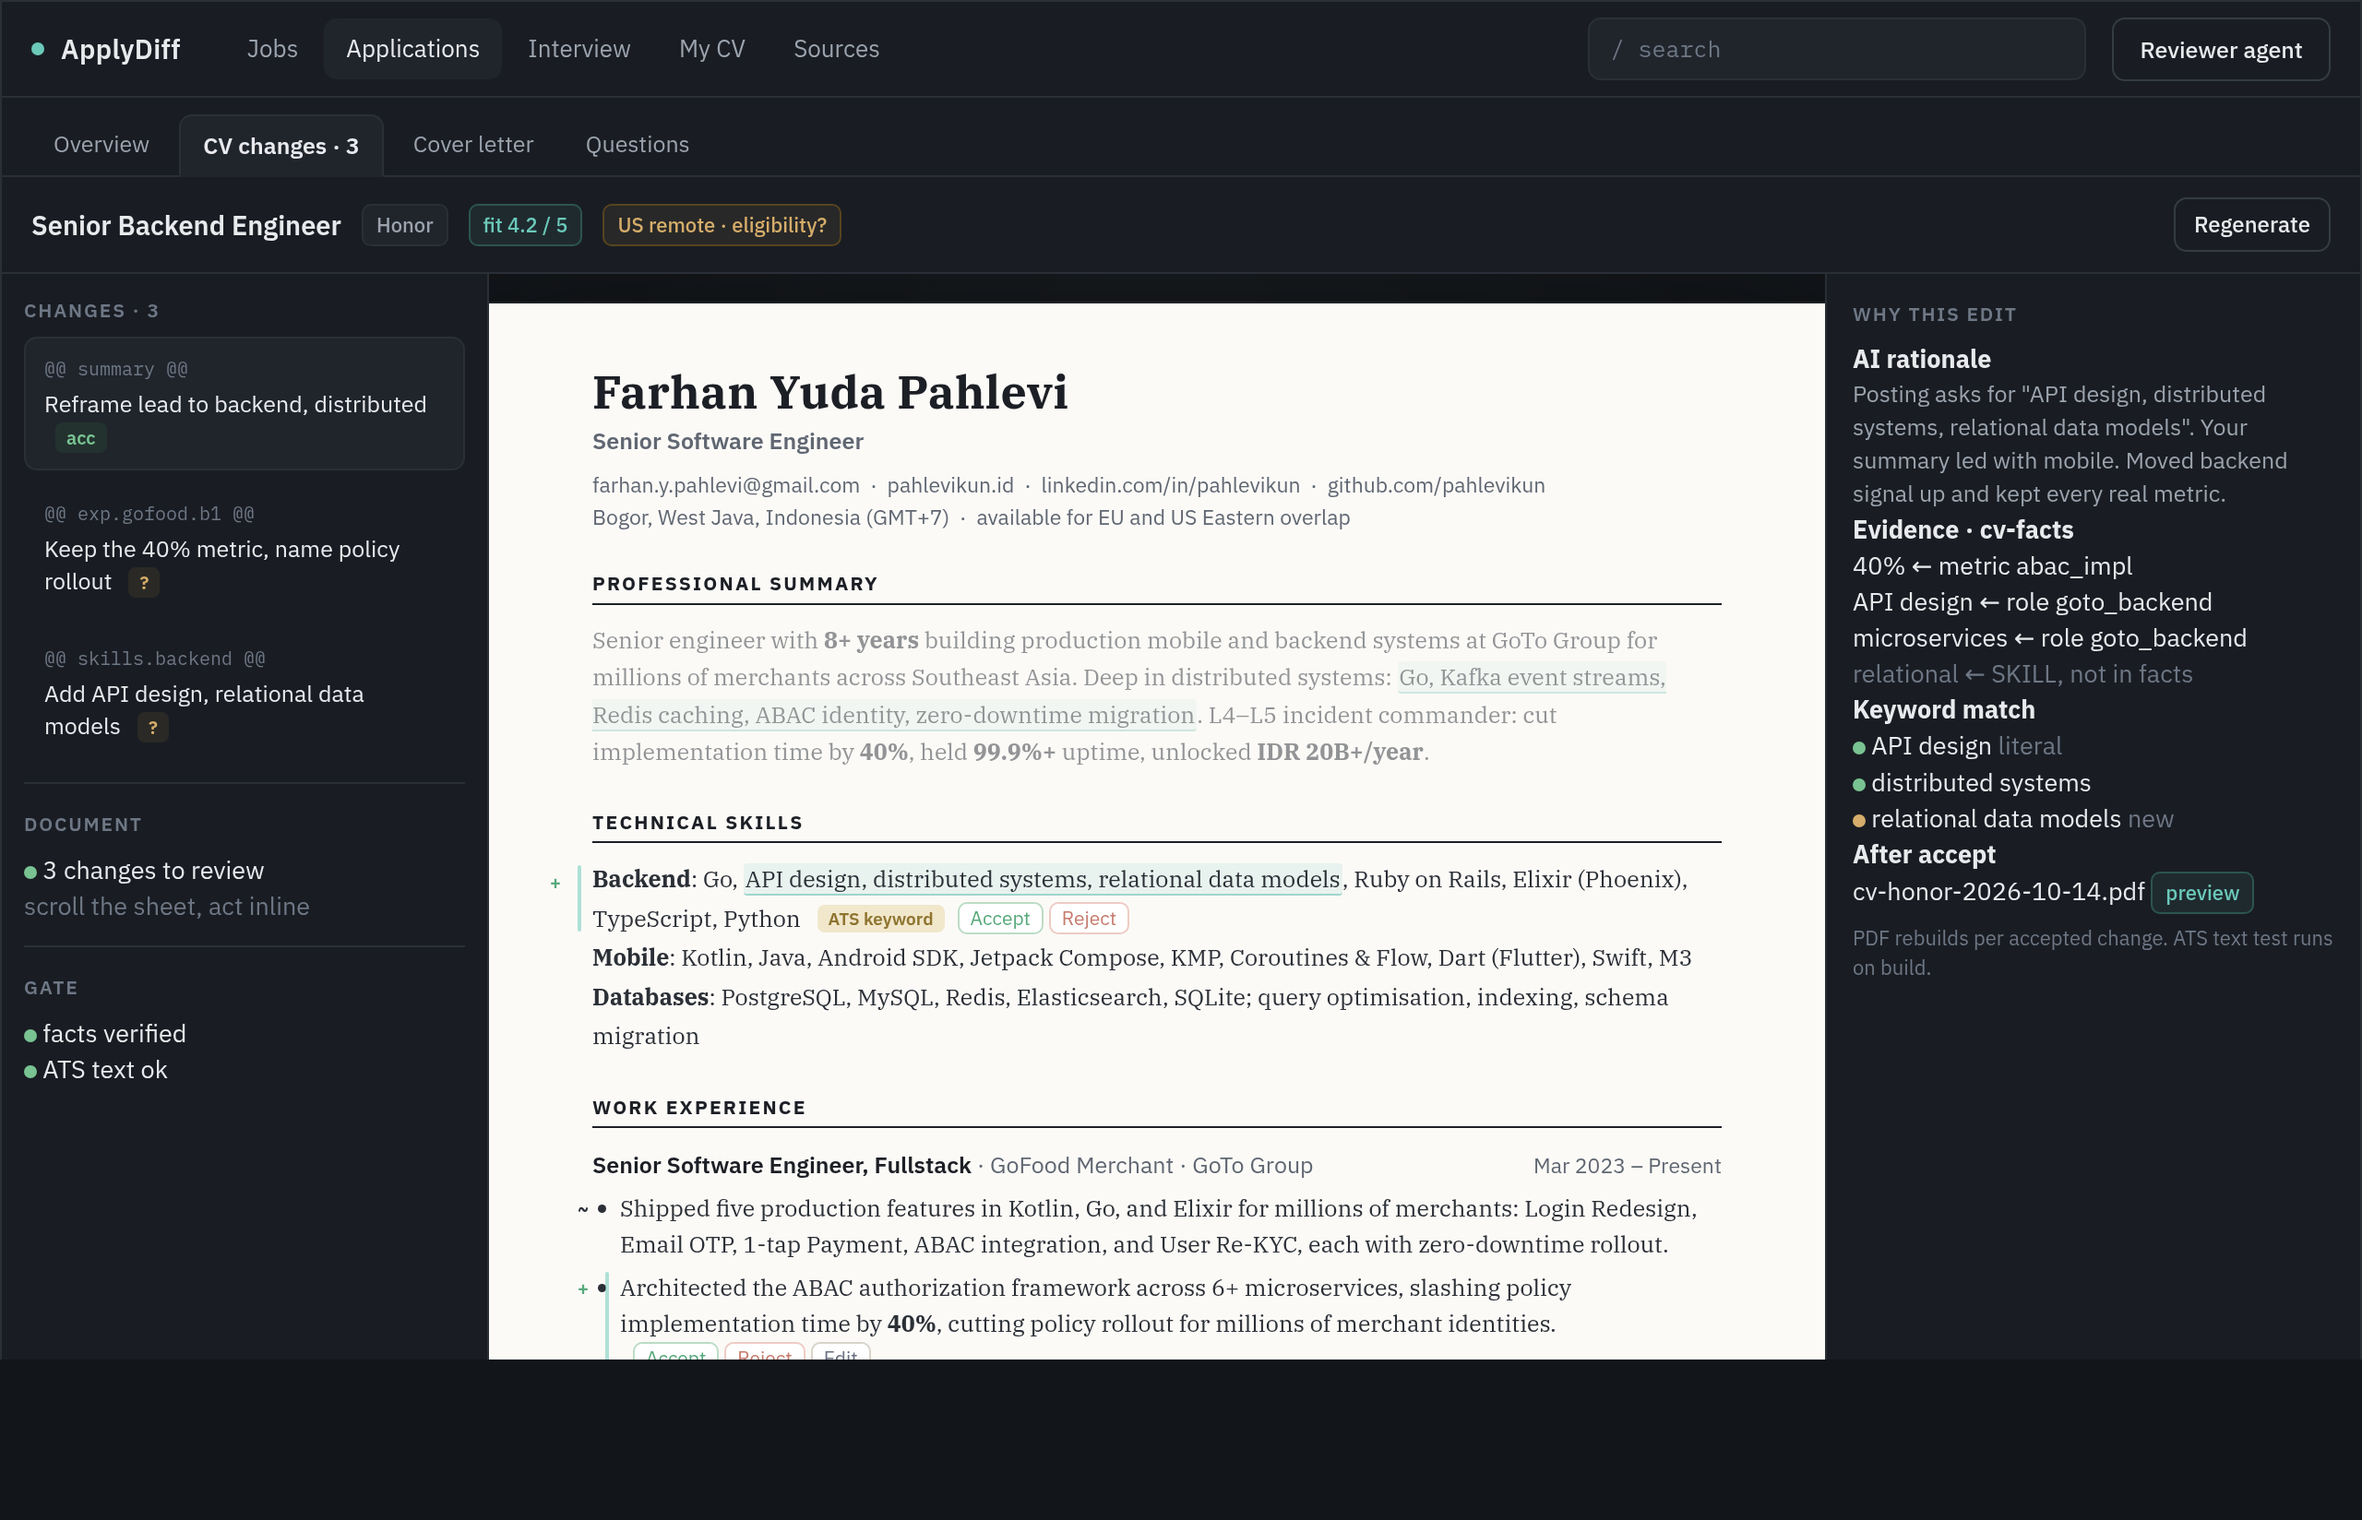
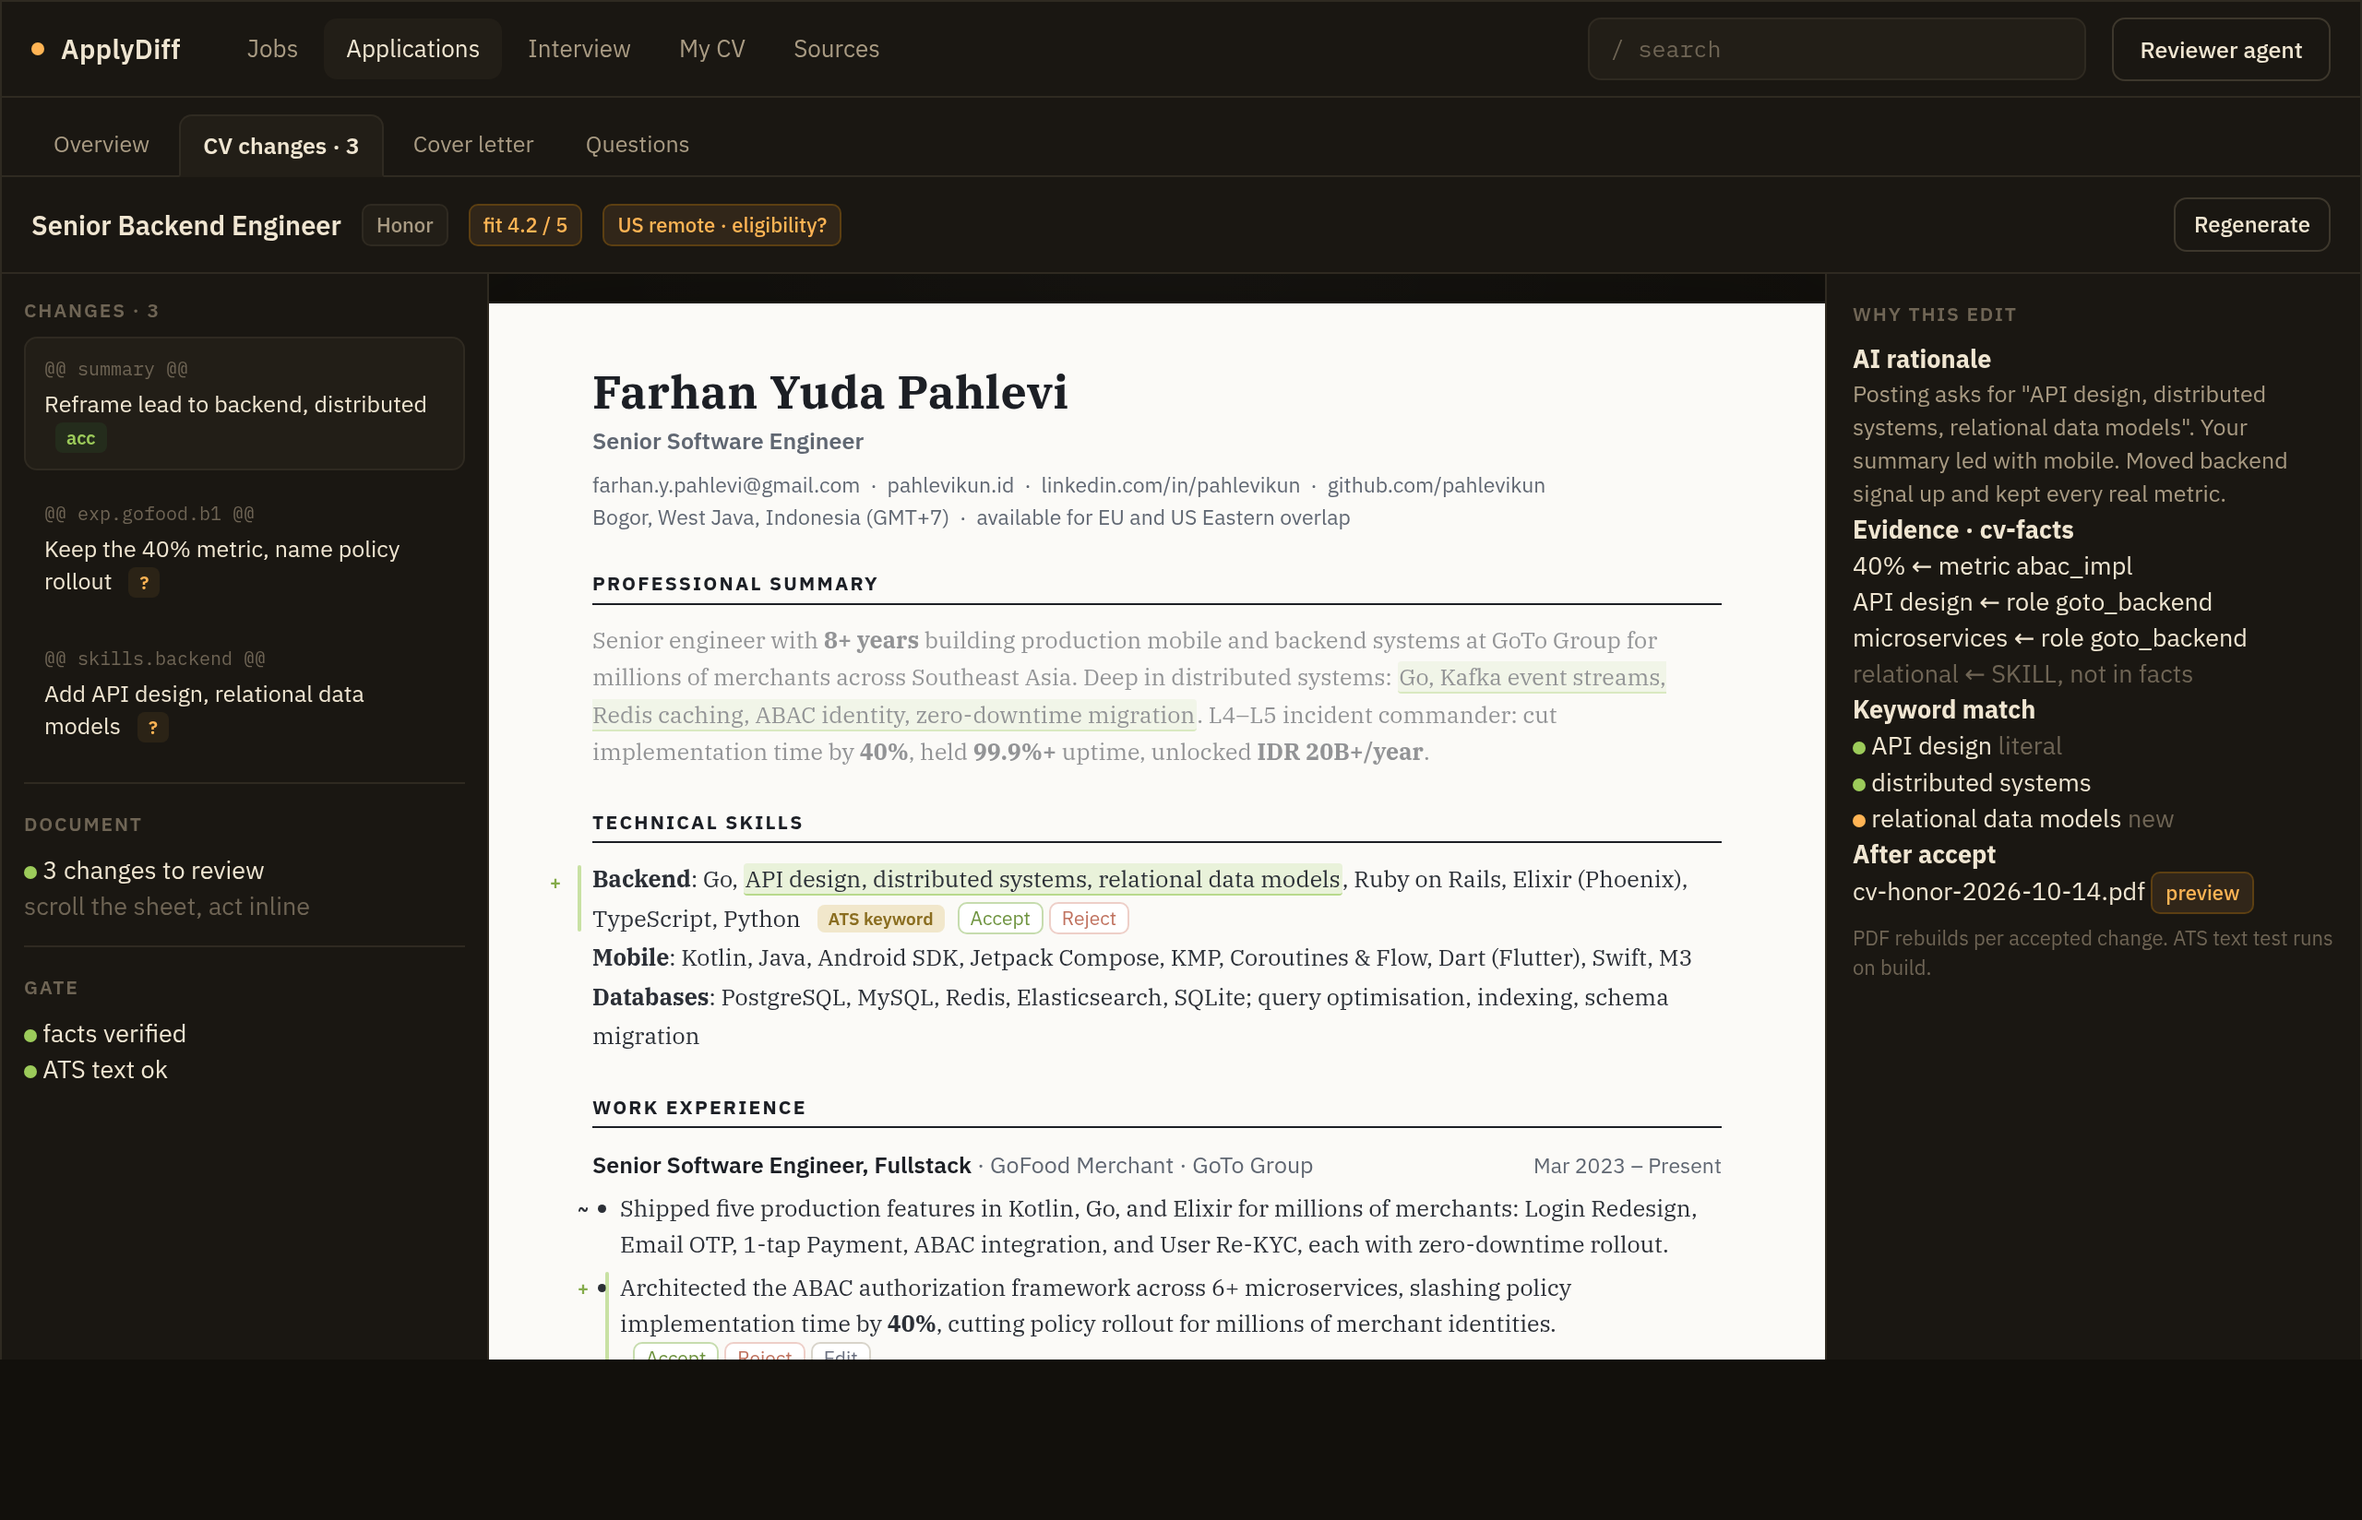
design: lock Phosphor palette + plan CLI/TUI/Web
- theme.css: amber CRT tokens (bg #12100c, accent #ffb454, add/del tuned)
- re-render s01-s06 wireframes with the locked palette
- docs/plans/2026-10-17-cli-tui-web.md: CLI commands, Bubble Tea TUI,
  web polish, phases with checklists

diff --git a/docs/wireframes/theme.css b/docs/wireframes/theme.css
@@ -7,11 +7,11 @@
 @font-face{font-family:'Plex Mono';src:url('fonts/ibm-plex-mono-latin-600-normal.woff2') format('woff2');font-weight:600}
 
 :root{
-  --bg:#12151a; --surface:#191d23; --surface2:#20252c; --line:#2a2f37; --line2:#353b44;
-  --fg:#e9eaed; --muted:#9ba3ae; --dim:#6e7785;
-  --accent:#6bc9ba; --accent-dim:#2c554d; --amber:#d6ad6a;
-  --add:#79c392; --add-bg:#17261d; --add-gutter:#79c39222;
-  --del:#db8c7c; --del-bg:#2a1e1b; --del-gutter:#db8c7c22;
+  --bg:#12100c; --surface:#1a1712; --surface2:#221e17; --line:#2f2a21; --line2:#3d372c;
+  --fg:#f0e6d2; --muted:#a99b83; --dim:#6f6555;
+  --accent:#ffb454; --accent-dim:#5c3f12; --amber:#ffb454;
+  --add:#9ccb5a; --add-bg:#1d2412; --add-gutter:#9ccb5a22;
+  --del:#e5644e; --del-bg:#2a1712; --del-gutter:#e5644e22;
   --r:10px; --r-sm:7px;
 }
 *{box-sizing:border-box;margin:0;padding:0}
@@ -28,7 +28,7 @@ body{background:var(--bg);color:var(--fg);font-family:'Plex Sans',system-ui,sans
 .nav a:hover{color:var(--fg)}
 .grow{flex:1}
 .search{display:flex;align-items:center;gap:7px;background:var(--surface2);border:1px solid var(--line);border-radius:var(--r-sm);padding:7px 11px;color:var(--dim);width:270px;font-size:12.5px}
-.btn{background:var(--accent);color:#05221f;border:none;border-radius:var(--r-sm);padding:8px 14px;font-weight:600;font-size:12.5px;cursor:pointer;font-family:inherit}
+.btn{background:var(--accent);color:#1a1206;border:none;border-radius:var(--r-sm);padding:8px 14px;font-weight:600;font-size:12.5px;cursor:pointer;font-family:inherit}
 .btn.ghost{background:transparent;color:var(--fg);border:1px solid var(--line2);font-weight:500}
 .btn.sm{padding:5px 10px;font-size:12px}
 .btn:disabled{opacity:.4;cursor:not-allowed}
@@ -41,8 +41,8 @@ body{background:var(--bg);color:var(--fg);font-family:'Plex Sans',system-ui,sans
 .lbl{font-size:10.5px;text-transform:uppercase;letter-spacing:.9px;color:var(--dim);font-weight:600;margin:14px 0 7px}
 .lbl:first-child{margin-top:0}
 .chip{display:inline-flex;align-items:center;gap:5px;font-size:11px;padding:2.5px 7px;border-radius:5px;background:var(--surface2);border:1px solid var(--line);color:var(--muted);font-weight:500}
-.chip.acc{color:var(--accent);border-color:var(--accent-dim);background:#6bc9ba14}
-.chip.amb{color:var(--amber);border-color:#57441f;background:#d6ad6a14}
+.chip.acc{color:var(--accent);border-color:var(--accent-dim);background:#ffb4541a}
+.chip.amb{color:var(--amber);border-color:#5c3f12;background:#ffb4541a}
 .dot{width:7px;height:7px;border-radius:50%;background:var(--accent);display:inline-block}
 .hr{height:1px;background:var(--line);margin:12px 0}
 .muted{color:var(--muted)}.dim{color:var(--dim)}.acc{color:var(--accent)}.amb{color:var(--amber)}
@@ -53,7 +53,7 @@ body{background:var(--bg);color:var(--fg);font-family:'Plex Sans',system-ui,sans
 @font-face{font-family:'Plex Serif';src:url('fonts/ibm-plex-serif-latin-700-normal.woff2') format('woff2');font-weight:700}
 :root{--paper:#fbfaf7;--ink:#1c1f25;--ink-mut:#606772;--ink-dim:#8d929b;--paper-line:#e6e3db}
 
-.sheetwrap{flex:1;min-height:0;overflow:hidden;background:#101317;display:flex;justify-content:center;position:relative}
+.sheetwrap{flex:1;min-height:0;overflow:hidden;background:#100e0a;display:flex;justify-content:center;position:relative}
 .sheetwrap:before{content:"";position:absolute;inset:0;background:radial-gradient(120% 60% at 50% 0%,#ffffff08,transparent 60%)}
 .sheet{width:840px;background:var(--paper);color:var(--ink);margin:16px 0 0;box-shadow:0 24px 70px #000a,0 0 0 1px #ffffff12;position:relative;z-index:1}
 .pad{padding:34px 56px 60px}
@@ -74,16 +74,16 @@ ul.dots li{font-family:'Plex Serif';font-size:12.5px;line-height:1.55;color:#2b2
 /* changes: inline marks, no boxes */
 .chg{position:relative}
 .chg>.mk{position:absolute;left:-26px;top:2px;font-family:'Plex Mono';font-size:10px;font-weight:700;width:12px;text-align:center}
-.chg.add>.mk{color:#57a97b}.chg.del>.mk{color:#c67b6d}
+.chg.add>.mk{color:#84ab4a}.chg.del>.mk{color:#c0725f}
 .chg:before{content:"";position:absolute;left:-8px;top:1px;bottom:1px;width:2px;border-radius:2px}
-.chg.add:before{background:#6bc9ba88}.chg.del:before{background:#db8c7c88}
-ins{background:#6bc9ba20;border-bottom:1px solid #a0d5cb;text-decoration:none;padding:0 1px;border-radius:2px}
-del{color:#b36d5f;background:#db8c7c14;text-decoration:line-through;padding:0 1px;border-radius:2px}
+.chg.add:before{background:#9ccb5a88}.chg.del:before{background:#e5644e88}
+ins{background:#9ccb5a2e;border-bottom:1px solid #b8d98c;text-decoration:none;padding:0 1px;border-radius:2px}
+del{color:#b3603f;background:#e5644e14;text-decoration:line-through;padding:0 1px;border-radius:2px}
 .ctl{display:inline-flex;gap:3px;margin-left:7px;vertical-align:1px}
 .ctl button{border:1px solid #d8d4ca;background:#fff;border-radius:5px;font-size:10.5px;line-height:1;padding:2.5px 6px;cursor:pointer;color:#6a7080;font-family:'Plex Sans'}
-.ctl .ok{color:#57a97b;border-color:#bcdcc5}
-.ctl .no{color:#c67b6d;border-color:#eecbc4}
-.ats{font-family:'Plex Sans';font-size:9.5px;font-weight:600;color:#8f7430;background:#f1e7cb;border-radius:4px;padding:1.5px 6px;margin-left:6px;vertical-align:1px}
+.ctl .ok{color:#6f9440;border-color:#c6dcae}
+.ctl .no{color:#c0725f;border-color:#eecfc8}
+.ats{font-family:'Plex Sans';font-size:9.5px;font-weight:600;color:#8a6d1f;background:#f1e7cb;border-radius:4px;padding:1.5px 6px;margin-left:6px;vertical-align:1px}
 .accepted{opacity:.5}
 .accepted .ctl{display:none}
 

diff --git a/docs/plans/2026-10-17-cli-tui-web.md b/docs/plans/2026-10-17-cli-tui-web.md
@@ -1,0 +1,169 @@
+# ApplyDiff — CLI + TUI + Web (proper UI/UX)
+
+Status: plan · Owner: F Y Pahlevi · Date: 2026-10-17
+
+## Why
+
+Core Go udah jalan (scan, match, cv, tailor, diff, filter, application, store,
+export). Sekarang cuma kebuka lewat HTTP API + Nuxt web. Kita mau tiga pintu
+masuk ke **satu core yang sama**:
+
+1. **CLI** — scriptable, non-interactive, buat otomasi (cron, pipe).
+2. **TUI** — interactive di terminal, keyboard-driven, "alive" seperti
+   claude-code / codex / cursor-cli. Ini rumah alami buat review diff per-hunk.
+3. **Web** — UI proper buat yang mau lihat penuh.
+
+Satu core, satu SQLite, tiga muka. **Gak ada logika bisnis di UI.**
+
+## Palette — LOCKED: PHOSPHOR
+
+Amber CRT di warm black. Nuansa terminal, bukan hijau klise.
+
+```
+--bg      #12100c   --surface  #1a1712   --surface2 #221e17
+--line    #2f2a21   --line2    #3d372c
+--fg      #f0e6d2   --muted    #a99b83   --dim      #6f6555
+--accent  #ffb454   --accent-dim #5c3f12
+--add     #9ccb5a   --del      #e5644e
+paper #fbfaf7  ink #1c1f25  paper-line #e6e3db
+```
+
+Rules (biar gak jadi slop):
+
+- Accent cuma buat **satu** hal per layar (CTA/aktif). Bukan dekorasi.
+- `add`/`del` cuma buat diff. Jangan dipakai buat status umum.
+- Gak ada gradient. Gak ada glow berlebih. Border 1px, radius 10px / 7px.
+- Font: IBM Plex Sans (UI) + IBM Plex Mono (angka, kode, diff).
+- Motion minimal: fade 120ms, gak ada bounce.
+
+## Arsitektur
+
+```
+             ┌──────────────── internal/ (core, no UI) ────────────────┐
+             │ job source scan match cv tailor diff filter extract    │
+             │ application store export llm                           │
+             └───────▲───────────────────────▲────────────────────────┘
+                     │ in-process            │ in-process
+        cmd/applydiff (CLI subcommands)   cmd/applydiff tui (Bubble Tea)
+                     │
+                     │ net/http
+                     ▼
+              cmd/applydiff serve  ──►  web/ (Nuxt 3)
+```
+
+- CLI + TUI: panggil core **langsung** (in-process). Cepat, gak perlu server.
+- Web: lewat HTTP API yang sama (`/api/...`).
+- Satu sumber kebenaran: semua aksi nulis ke SQLite lewat `internal/store`.
+- Audit log: setiap approve/apply tercatat (actor, waktu, hunk).
+
+## Surface 1 — CLI
+
+Binary: `applydiff`. Non-interactive. Semua command punya `--json`.
+
+| Command | Fungsi |
+|---|---|
+| `applydiff scan [--source S] [--preset P]` | tarik job, dedupe, liveness probe |
+| `applydiff jobs [--filter ...] [--json]` | list job + skor filter |
+| `applydiff show <job-key>` | detail JD + match reasons |
+| `applydiff match <job-key>` | hitung skor match vs CV |
+| `applydiff tailor <job-key>` | generate CV variant + cover letter (LLM) |
+| `applydiff diff <job-key> [--color=auto]` | tampilin diff per-hunk (unified) |
+| `applydiff approve <job-key> --hunk N[,N]` | approve hunk tertentu |
+| `applydiff approve <job-key> --all` | approve semua hunk (gate tetap wajib eksplisit) |
+| `applydiff reject <job-key> --hunk N` | tolak hunk |
+| `applydiff build <job-key>` | compile PDF LaTeX (xelatex) |
+| `applydiff apply <job-key> [--mode manual\|assisted\|auto]` | tandai / kirim |
+| `applydiff export <file>` / `import <file>` | SQLite portability |
+| `applydiff serve [--port 8787]` | start HTTP API + web |
+| `applydiff tui` | buka TUI |
+
+Aturan CLI:
+
+- Exit code: `0` ok · `2` gak ada match · `3` butuh approval · `4` error LLM ·
+  `5` error build LaTeX. Biar bisa dipakai di script.
+- `--json` output stabil buat pipe.
+- `--dry-run` di semua command yang nulis.
+- Gak ada auto-submit. `apply` default `manual`.
+
+## Surface 2 — TUI
+
+Framework: **Bubble Tea** + Lip Gloss + Bubbles (charmbracelet). Satu binary.
+
+Layar:
+
+1. **Feed** — list job, kolom: judul, company, region, umur posting, skor.
+   Filter preset di kiri, vim keys.
+2. **Job** — JD lengkap + match reasons (kenapa cocok/gak).
+3. **Diff review** ← HERO. Persis `git add -p` tapi buat CV:
+   per-hunk, `j`/`k` pindah hunk, `space` toggle, `a` accept, `x` reject,
+   `e` edit manual, `b` build PDF setelah semua keputusannya.
+4. **Sources** — status tiap board (ok/gagal, jumlah, terakhir).
+5. **Applications** — pipeline (draft → ready → applied), status email.
+
+Keymap global: `?` help · `tab`/`shift+tab` ganti pane · `/` filter ·
+`g`/`G` atas/bawah · `q` keluar · `ctrl+c` quit paksa.
+
+Feel: warna Phosphor, border tipis, status bar bawah (mode + hint),
+spinner buat kerja LLM, gak ada frame yang berkedip.
+
+## Surface 3 — Web
+
+Nuxt 3. Wireframe s01–s06 jadi halaman nyata.
+
+- Terapin token Phosphor ke `web/assets/theme.css` (atau Tailwind config).
+- Halaman: Jobs · Match · Diff (approve/reject per-hunk) · My CV · Interview · Sources.
+- Nav 5 item konsisten.
+- Keyboard: `/` fokus search, `j/k` navigasi list, `space` toggle hunk di Diff.
+- Diff view = komponen utama, sama persis logikanya dengan TUI + CLI.
+- Gak ada auto-submit. Gak ada loading spinner generik. Skeleton disesuaikan bentuk.
+
+## Fase + checklist
+
+### Fase A — Token & desain
+- [ ] `web/assets/theme.css` pakai token Phosphor
+- [ ] Tailwind/setara di-config pakai token itu (bukan warna hardcode)
+- [ ] Ikon bespoke (bukan lucide default)
+- [ ] Font IBM Plex Sans/Mono self-host di web
+- [ ] Wireframe s01–s06 di-regenerate pakai token final
+
+### Fase B — CLI
+- [ ] Refactor `cmd/applydiff` ke subcommand (cobra)
+- [ ] `scan`, `jobs`, `show`, `match`, `tailor`
+- [ ] `diff` (output unified, `--color`)
+- [ ] `approve` / `reject` per-hunk + `--all`
+- [ ] `build`, `apply`, `serve`, `tui`
+- [ ] `export` / `import` (pindah dari flag lama)
+- [ ] Exit code + `--json` + `--dry-run`
+- [ ] Test: `go test ./cmd/...`
+
+### Fase C — TUI
+- [ ] Setup Bubble Tea (model, update, view)
+- [ ] Layar Feed + filter preset
+- [ ] Layar Job + match reasons
+- [ ] Layar Diff review (hero) + keymap
+- [ ] Layar Sources + Applications
+- [ ] Status bar + help overlay
+- [ ] Snapshot test render (tanpa TTY)
+
+### Fase D — Web proper
+- [ ] Terapin token + komponen (button, chip, card, list)
+- [ ] Halaman Jobs + filter panel
+- [ ] Halaman Match
+- [ ] Halaman Diff + approve/reject per-hunk
+- [ ] Halaman My CV (structured editor)
+- [ ] Halaman Interview + Sources
+- [ ] Keyboard shortcuts
+- [ ] Responsive (min 1280, turun ke 1024)
+
+### Fase E — Packaging
+- [ ] Satu binary `applydiff` (CLI + TUI + serve)
+- [ ] Makefile: `make cli`, `make tui`, `make web`, `make pdf`
+- [ ] README: quickstart 3 muka
+
+## Definisi selesai
+
+- Tiga muka jalan dari core yang sama, gak ada logika dobel.
+- Diff per-hunk konsisten di CLI, TUI, Web.
+- Gak ada auto-submit di default.
+- `go build ./...`, `go test ./...`, `npm run build` pass.
+- Palette Phosphor kepakai konsisten, gak ada warna lepas.
